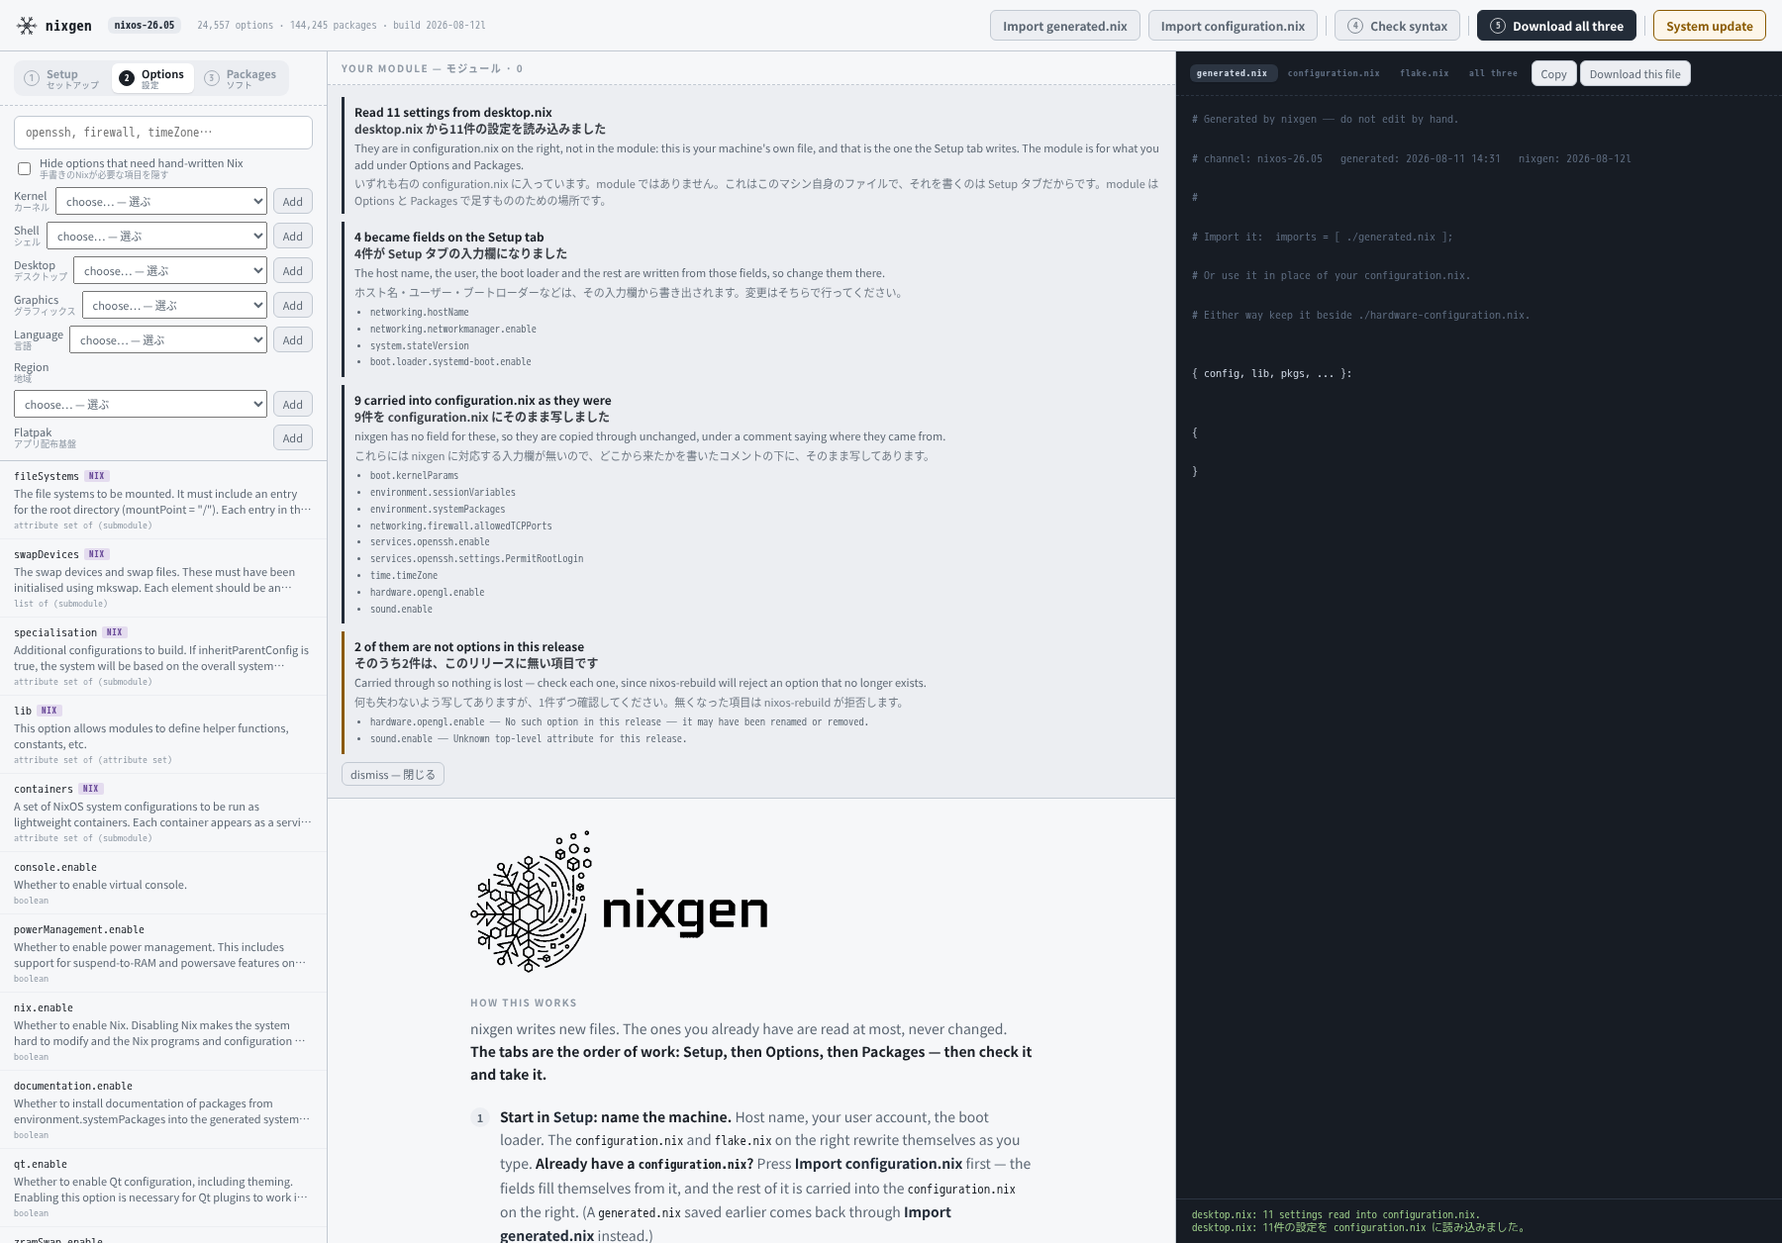
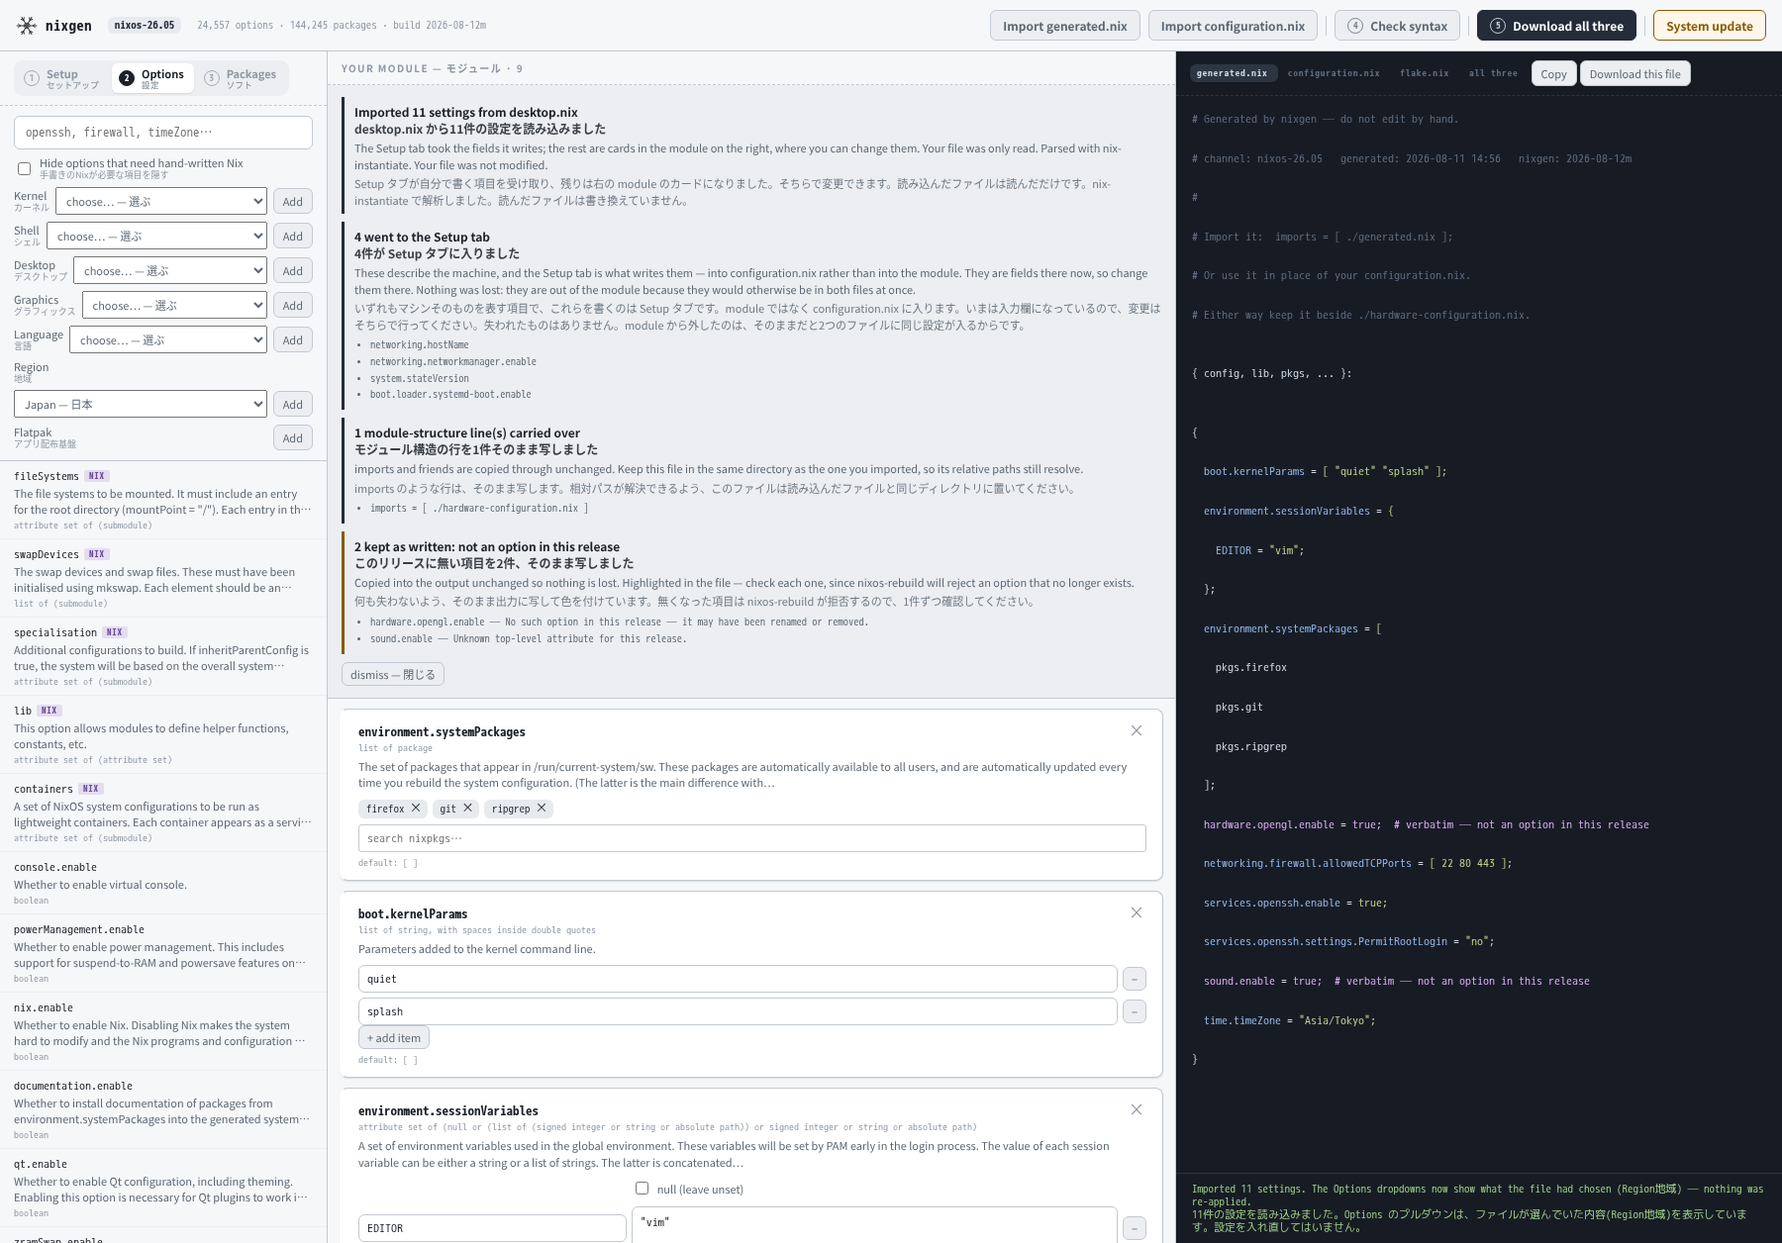
Put a configuration.nix's other settings into the module
Importing one used to copy everything the Setup tab does not own into
the configuration.nix that tab writes, on the reasoning that somebody's
own file should not end up inside nixgen's. That reasoning did not
survive use: the file those lines were copied into is generated by
nixgen anyway, so nothing was preserved — and copied text can only be
looked at, while a card can be edited, matched against the catalogue and
checked for collisions.

The Setup fields and the imports list are unchanged, and the settings
the Setup tab owns still stay out of the module, so nothing is defined
in both files. Options dropdowns follow, so a file with a locale and a
time zone comes back with Language and Region already selected.

Verified on a file with Setup fields, imports, plain options, a package
list, a negative number and a lib.mkIf: the right things land in each
place, nothing is carried twice, and both files parse.

diff --git a/build/static/app.js b/build/static/app.js
@@ -2,7 +2,7 @@
 
 /* Shown in the header. Bump it whenever this file changes, so "the fix did not
    work" can be told apart from "the old file is still being served". */
-const BUILD = '2026-08-12l';
+const BUILD = '2026-08-12m';
 
 const $  = (s, r = document) => r.querySelector(s);
 const $$ = (s, r = document) => [...r.querySelectorAll(s)];
@@ -3024,141 +3024,54 @@ async function readInto(ev, into) {
      by them. */
   if (into === 'module') return intoModule(f, r, incoming, []);
 
-  /* A configuration.nix is the machine's own file. The fields on the Setup tab
-     take what they hold, and everything else is carried into the
-     configuration.nix that tab writes — the module is left alone. `imports` is
-     the exception: the starter writes its own, so the paths are merged into
-     that list rather than carried as a line that would define it twice. */
+  /* A configuration.nix splits three ways. The Setup tab takes the fields it
+     owns and writes them from there. `imports` is merged into the list the
+     starter writes, rather than carried as a line that would define it twice.
+     **Everything else becomes cards in the module.**
+
+     That last part used to go into the configuration.nix the Setup tab writes,
+     on the reasoning that somebody's own file should not end up inside
+     nixgen's. In practice that reasoning did not survive contact: the file
+     those lines were copied into is generated by nixgen anyway, so nothing was
+     being preserved — and copied text can only be looked at, while a card can
+     be edited, searched against the catalogue, and checked for collisions. An
+     option this release does not have, or an expression the form cannot hold,
+     still arrives as a verbatim card, which is the module's existing shape for
+     both. */
   const toSetup = fillSetupFrom(incoming);
   const moved = new Set(toSetup);
-  const rest = incoming.filter(x => !moved.has(resolvePath(x.entry)));
 
   const ownImports = ['./hardware-configuration.nix', './generated.nix'];
   const extraImports = [];
-  const carried = [];
-  for (const x of rest) {
-    if (resolvePath(x.entry) === 'imports') {
+  const forModule = [];
+  for (const x of incoming) {
+    const path = resolvePath(x.entry);
+    if (moved.has(path)) continue;
+    if (path === 'imports') {
       splitNixList(String(x.entry.value).replace(/^[^[]*\[/, '').replace(/\][^\]]*$/, ''))
         .filter(p => p && !ownImports.includes(p))
         .forEach(p => extraImports.push(p));
       continue;
     }
-    carried.push({
-      path: resolvePath(x.entry),
-      segments: x.entry.segments || segmentsFor(x.entry),
-      type: x.entry.type,
-      value: x.entry.value,
-      note: x.entry.note,
-    });
+    forModule.push(x);
   }
+  const carried = [];
   state.carried = carried;
   state.carriedImports = extraImports;
-  state.lastTouched = null;
-  if (toSetup.length) syncSetupVisibility();
-  await loadStarter();
-  showFile('configuration.nix');
-
-  const notes = [];
-  notes.push({ cls: 'ok',
-    title: `Read ${r.matched.length} settings from ${f.name}`,
-    title_ja: `${f.name} から${r.matched.length}件の設定を読み込みました`,
-    body: 'They are in configuration.nix on the right, not in the module: ' +
-          'this is your machine\'s own file, and that is the one the Setup tab ' +
-          'writes. The module is for what you add under Options and Packages.',
-    body_ja: 'いずれも右の configuration.nix に入っています。module ではありません。' +
-             'これはこのマシン自身のファイルで、それを書くのは Setup タブだから' +
-             'です。module は Options と Packages で足すもののための場所です。' });
-  if (toSetup.length) {
-    notes.push({ cls: 'ok',
-      title: `${toSetup.length} became fields on the Setup tab`,
-      title_ja: `${toSetup.length}件が Setup タブの入力欄になりました`,
-      list: toSetup,
-      body: 'The host name, the user, the boot loader and the rest are written ' +
-            'from those fields, so change them there.',
-      body_ja: 'ホスト名・ユーザー・ブートローダーなどは、その入力欄から' +
-               '書き出されます。変更はそちらで行ってください。' });
-  }
-  if (carried.length) {
-    notes.push({ cls: 'ok',
-      title: `${carried.length} carried into configuration.nix as they were`,
-      title_ja: `${carried.length}件を configuration.nix にそのまま写しました`,
-      list: carried.map(c => c.path),
-      body: 'nixgen has no field for these, so they are copied through ' +
-            'unchanged, under a comment saying where they came from.',
-      body_ja: 'これらには nixgen に対応する入力欄が無いので、どこから来たかを' +
-               '書いたコメントの下に、そのまま写してあります。' });
-  }
-  if (extraImports.length) {
-    notes.push({ cls: 'ok',
-      title: `${extraImports.length} import(s) merged into the imports list`,
-      title_ja: `imports の行を${extraImports.length}件、取り込みました`,
-      list: extraImports,
-      body: 'Keep this configuration.nix in the same directory as the file you ' +
-            'read in, so those relative paths still resolve.',
-      body_ja: '相対パスが解決できるよう、この configuration.nix は読み込んだ' +
-               'ファイルと同じディレクトリに置いてください。' });
-  }
-  (r.notes || []).forEach(n => notes.push({ cls: 'warn',
-    title: 'Adjusted while reading', title_ja: '読み込みの際に調整した点',
-    body: n }));
-  /* Nix will not parse a file that defines one attribute twice — it is a parse
-     error, not a warning — so the file was read without it. Said here rather
-     than left as a refusal: the rest of the file is the user's settings, and
-     reading it in is what lets nixgen show the clash instead of only Nix
-     naming a line number. Reading it also resolves it, since a second card on
-     one path replaces the first. */
-  if (r.duplicate) {
-    notes.push({ cls: 'warn',
-      title: `${r.duplicate} was defined twice in that file`,
-      title_ja: `そのファイルでは ${r.duplicate} が2回定義されていました`,
-      body: 'Nix refuses such a file outright — it is a parse error, so ' +
-            'nixos-rebuild stops before it starts. It was read without Nix ' +
-            'this time so nothing is lost, and reading it in leaves one ' +
-            'definition. Check that card before you build.',
-      body_ja: 'Nix はこうしたファイルをそのまま拒否します。構文エラーなので ' +
-               'nixos-rebuild は始まる前に止まります。今回は Nix を使わずに' +
-               '読んだので失われたものはなく、読み込んだ結果は定義1つに' +
-               'なっています。ビルド前にそのカードを確認してください。' });
-  }
-  if (r.unknown.length) {
-    notes.push({ cls: 'warn',
-      title: `${r.unknown.length} of them are not options in this release`,
-      title_ja: `そのうち${r.unknown.length}件は、このリリースに無い項目です`,
-      list: r.unknown.map(x => `${x.path} — ${x.why}`),
-      body: 'Carried through so nothing is lost — check each one, since ' +
-            'nixos-rebuild will reject an option that no longer exists.',
-      body_ja: '何も失わないよう写してありますが、1件ずつ確認してください。' +
-               '無くなった項目は nixos-rebuild が拒否します。' });
-  }
-  /* Some carried values are expressions rather than literals — `lib.mkIf …`,
-     or a name from a `let` in the file you read. The `let` itself is not
-     carried (nixgen has no field for it), so a line that leaned on one now
-     references a variable that is not here. Check syntax will say
-     "undefined variable"; this says in advance why, so that is not a
-     mystery. Shown only when the file actually had one. */
-  if (r.expression.length) {
-    notes.push({ cls: 'warn',
-      title: `${r.expression.length} carried as written, and may lean on your ` +
-             `original file`,
-      title_ja: `${r.expression.length}件は式のまま写しました。元ファイルの定義に` +
-                `依存していることがあります`,
-      list: r.expression.map(x => x.option),
-      body: 'These are expressions — lib.mkIf, or a name from a let binding. ' +
-            'The let binding itself is not carried, so if one refers to one, ' +
-            'Check syntax will flag an undefined variable. Add that binding to ' +
-            'configuration.nix by hand.',
-      body_ja: 'lib.mkIf や let 束縛の名前など、式として写したものです。let 束縛' +
-               '自体は運ばれないので、それを参照している場合は Check syntax が' +
-               '「undefined variable」を指摘します。その束縛は configuration.nix ' +
-               'に手で足してください。' });
-  }
-  showNotice(notes);
-  setStatus(say(
-    `${f.name}: ${r.matched.length} settings read into configuration.nix.`,
-    `${f.name}: ${r.matched.length}件の設定を configuration.nix に読み込みました。`),
-    'ok');
+  await intoModule(f, r, forModule, toSetup, {
+    extraImports,
+    intro: {
+      body: 'The Setup tab took the fields it writes; the rest are cards in ' +
+            'the module on the right, where you can change them. Your file ' +
+            'was only read.',
+      body_ja: 'Setup タブが自分で書く項目を受け取り、残りは右の module の' +
+               'カードになりました。そちらで変更できます。読み込んだファイルは' +
+               '読んだだけです。',
+    },
+  });
   return;
 }
+
 
 /* What a card holds, as plain text: a raw option's value is Nix source, a
    nullable wraps it, everything else is the value itself. */
@@ -3241,7 +3154,7 @@ function syncPresetPickers() {
 
 /* The module route: what it used to do for every file, and still the right
    thing for one nixgen wrote. */
-async function intoModule(f, r, incoming, toSetup) {
+async function intoModule(f, r, incoming, toSetup, opts = {}) {
   const kept = incoming;
   const moved = new Set(toSetup);
 
@@ -3255,21 +3168,27 @@ async function intoModule(f, r, incoming, toSetup) {
   }
   for (const x of kept) state.selected.set(freeKey(x.path), x.entry);
   state.lastTouched = null;
-  if (toSetup.length) {
-    syncSetupVisibility();
-    await loadStarter();
-  }
 
   const notes = [];
   notes.push({ cls: 'ok',
     title: `Imported ${r.matched.length} settings from ${f.name}`,
     title_ja: `${f.name} から${r.matched.length}件の設定を読み込みました`,
-    body: r.used_nix
+    body: (opts.intro ? opts.intro.body + ' ' : '') + (r.used_nix
       ? 'Parsed with nix-instantiate. Your file was not modified.'
-      : 'Read directly — nix-instantiate was not on PATH.',
-    body_ja: r.used_nix
+      : 'Read directly — nix-instantiate was not on PATH.'),
+    body_ja: (opts.intro ? opts.intro.body_ja : '') + (r.used_nix
       ? 'nix-instantiate で解析しました。読んだファイルは書き換えていません。'
-      : 'nix-instantiate が PATH に無かったため、自前の読み取りを使いました。' });
+      : 'nix-instantiate が PATH に無かったため、自前の読み取りを使いました。') });
+  if ((opts.extraImports || []).length) {
+    notes.push({ cls: 'ok',
+      title: `${opts.extraImports.length} import(s) merged into the imports list`,
+      title_ja: `imports の行を${opts.extraImports.length}件、取り込みました`,
+      list: opts.extraImports,
+      body: 'Keep this configuration.nix in the same directory as the file ' +
+            'you read in, so those relative paths still resolve.',
+      body_ja: '相対パスが解決できるよう、この configuration.nix は読み込んだ' +
+               'ファイルと同じディレクトリに置いてください。' });
+  }
   (r.notes || []).forEach(n => notes.push({ cls: 'warn',
     title: 'Adjusted while reading', title_ja: '読み込みの際に調整した点',
     body: n }));
@@ -3352,6 +3271,11 @@ async function intoModule(f, r, incoming, toSetup) {
   showNotice(notes);
   rerender();
   runSearch();
+  if (toSetup.length || (opts.extraImports || []).length) {
+    syncSetupVisibility();
+    await loadStarter();
+  }
+  if (opts.intro) showFile('configuration.nix');
   const picked = syncPresetPickers();
   const tail = picked.length
     ? ` The Options dropdowns now show what the file had chosen ` +

diff --git a/README.ja.md b/README.ja.md
@@ -280,9 +280,9 @@ sudo nixos-rebuild switch --flake /etc/nixos#ホスト名
 |---|---|
 | ホスト名、ユーザーとグループ、アーキテクチャ、ブートローダー、NetworkManager、flakes、`system.stateVersion` | **Setup** タブの入力欄。そこから該当行が書き出されます |
 | `imports` | nixgen が書く `configuration.nix` の imports に統合されます |
-| それ以外すべて | 同じファイルに、どこから来たかのコメントを付けて**そのまま**写します |
+| それ以外すべて | **module のカード**になります。他の設定と同じように変更できます。このリリースに無い項目や、フォームに載せられない式は、読めるが編集できないカードとして入ります |
 
-module(`generated.nix`)には触れません。あちらは、**Options** と **Packages** で後から足すもののための場所です。読み込んだファイルにあった項目を Options で足すと、その行は赤くなり、ステータス欄がどれかを伝えます(Setup タブが書く項目と同じ警告です)。
+**設定が module に入るのは意図的です。** 写したテキストは眺めることしかできませんが、カードなら**変更でき**、カタログと突き合わせられ、衝突も検出できます。configuration.nix 側は Setup タブが書くので、そちらに写しても保存されるわけではありません。
 
 **Options のプルダウンは、ファイルが選んでいた内容を表示します。** `generated.nix` を読み戻すと、Kernel・Shell・Desktop・Graphics・Language・Region の各プルダウンが、そのファイルの内容に合わせて選択済みになります。クリックの記憶ではなく、**設定そのものから読み取ります**。**選択するだけで、適用はしません。** 設定はすでに module にあるので、何も書き込まれず、二重にもなりません。ファイルが使っていないプリセットや、nixgen が一覧に持たない値(18か所に無いタイムゾーンなど)は、推測せず `choose…` のままにします。
 

diff --git a/CHANGELOG.md b/CHANGELOG.md
@@ -9,6 +9,20 @@ option counts.
 
 ## English
 
+### build 2026-08-12m
+
+- **Importing a `configuration.nix` now puts everything the Setup tab does not
+  own into the module, as cards.** It used to copy those lines verbatim into
+  the `configuration.nix` the Setup tab writes.
+- Why the change: the file they were copied into is generated by nixgen
+  anyway, so nothing was being preserved — and copied text can only be looked
+  at, while a card can be edited, matched against the catalogue and checked
+  for collisions. The Setup fields and the `imports` list are unchanged, and
+  the settings the Setup tab owns still stay out of the module so nothing is
+  defined in both files.
+- The Options dropdowns follow, so a `configuration.nix` with a locale and a
+  time zone comes back with Language and Region already selected.
+
 ### Verification pass, 2026-08-12b
 
 The second full sweep before calling this stable, covering everything since
@@ -1291,6 +1305,12 @@ three of these six showed up in only one of the two.
 ---
 
 ## 日本語
+
+### build 2026-08-12m
+
+- **`configuration.nix` を取り込むと、Setup タブが持たない項目はすべて module のカードになります。** これまでは、それらを Setup タブが書く `configuration.nix` へ**そのまま写して**いました。
+- **変えた理由**: 写す先のファイルはどのみち nixgen が生成するので、**何も保存されていませんでした**。そして写したテキストは眺めることしかできませんが、カードなら**変更でき**、カタログと突き合わせられ、衝突も検出できます。Setup タブの入力欄と `imports` の扱いは従来どおりで、**Setup が持つ項目は module に入りません**(2つのファイルに同じ設定が入るのを防ぐため)。
+- Options のプルダウンも追従するので、ロケールとタイムゾーンを持つ `configuration.nix` を読み込むと、Language と Region が選択済みで戻ります。
 
 ### 検証パス、2026-08-12b
 

diff --git a/CLAUDE.md b/CLAUDE.md
@@ -120,6 +120,18 @@ at `nixos-rebuild`, which is the least helpful place for it to surface.
   (module structure), verbatim (an expression), verbatim (not in this release).
   Nothing is discarded. If a fifth case appears, add a group rather than dropping
   it.
+- **A configuration.nix splits three ways, and the third way changed.** The
+  Setup fields take what they own, `imports` is merged into the list the
+  starter writes, and **everything else becomes cards in the module**. It used
+  to be carried verbatim into the configuration.nix the Setup tab writes, on
+  the reasoning that somebody's own file should not end up inside nixgen's.
+  That reasoning did not survive use: the file those lines were copied into is
+  generated by nixgen anyway, so nothing was being preserved — and copied text
+  can only be looked at, while a card can be edited, matched against the
+  catalogue and checked for collisions. `state.carried` is now always empty;
+  `state.carriedImports` still carries the imports. An option this release
+  lacks, or an expression the form cannot hold, still arrives as a verbatim
+  card, which is the module's existing shape for both.
 - **There are two imports, and which button was pressed decides where the file
   lands.** A `configuration.nix` is the machine's own file: the Setup fields
   take what they hold, its `imports` are merged into the list the starter

diff --git a/README.md b/README.md
@@ -372,7 +372,7 @@ settings go:
 |---|---|
 | Host name, user and groups, architecture, boot loader, NetworkManager, flakes, `system.stateVersion` | fields on the **Setup** tab, which write those lines |
 | `imports` | merged into the imports list of the `configuration.nix` nixgen writes |
-| everything else | copied into that same file, unchanged, under a comment saying where it came from |
+| everything else | **cards in the module**, where you can change them like anything else. An option this release does not have, or an expression a form cannot hold, arrives as a card you can read but not edit |
 
 The module (`generated.nix`) is left alone: it is for what you add under
 **Options** and **Packages** afterwards. If you add an option there that your
